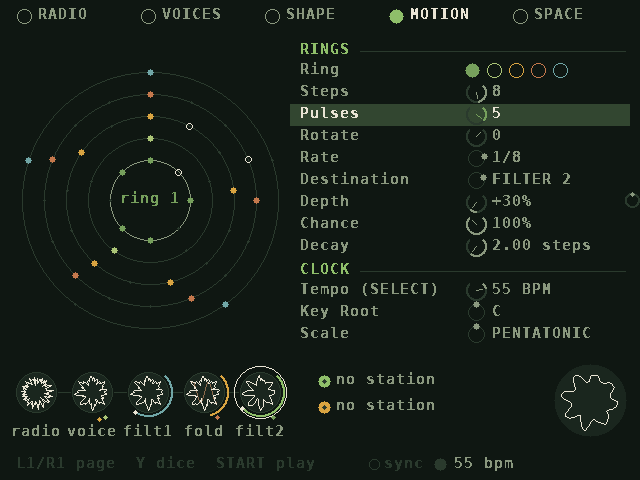
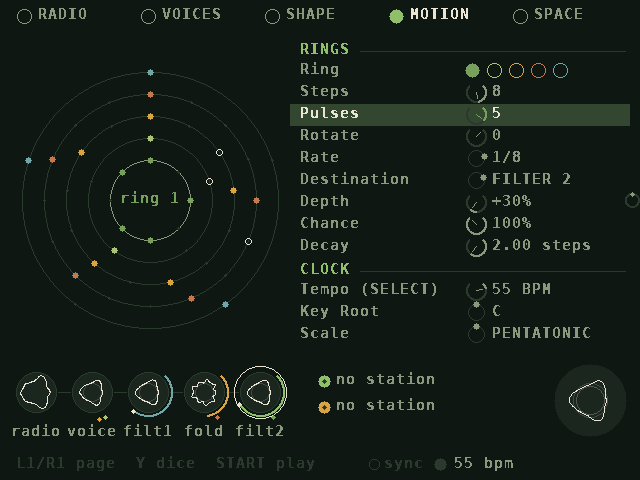
Draw the sound as abstract blooms instead of waveforms
Each tap of the signal chain now drives an abstract form rather than a
scope trace or a graph: loudness swells the core, brightness sets the
petal count (3, 5, 8, 13, 21) and spin, spikiness sharpens the petals,
and attacks send out ripples. The fold stage shapes its petals through
the folder at its live settings, replacing the transfer-curve plot.
Words, rim arcs, ring flashes and routing dots stay.

- dsp: per-voice raw-stream taps and synth_tap_features()
  (RMS, brightness, crest factor)

Claude-Session: https://claude.ai/code/session_01NaRCjGbybLXzqER8FjaiKa

diff --git a/src/main.c b/src/main.c
@@ -812,29 +812,77 @@ static void draw_voice_dots(int cx, int y, int o)
 
 /* ================================================================== PLAY screen */
 
-/* auto-scaling for traces: fast up, slow down, so quiet material is visible but gate dips still show */
-static float trace_peak[TAP_COUNT + 2];
+/* Abstract sound forms. Each tap of the signal chain drives a "bloom": its core swells with loudness,
+ * brightness sets how many petals it has (3, 5, 8, 13, 21) and how fast it turns, a spiky signal gives
+ * sharp petals, and sudden attacks send out ripples. No waveform is drawn literally. */
+typedef struct { float r, a; } Ripple;
+typedef struct {
+    float level, peak_env, slow;
+    float bright, rough, spin;
+    Ripple rip[5];
+} Bloom;
+static Bloom blooms[TAP_COUNT];
 
-static void autoscale(float *buf, int n, int slot)
+static void bloom_update(int tap, float dir)
 {
-    float pk = 0;
-    for (int i = 0; i < n; i++) { float a = fabsf(buf[i]); if (a > pk) pk = a; }
-    float *env = &trace_peak[slot];
-    *env = pk > *env ? pk : *env * 0.96f;
-    float g = 0.95f / (*env > 0.01f ? *env : 0.01f);
-    for (int i = 0; i < n; i++) {
-        float v = buf[i] * g;
-        buf[i] = v > 1 ? 1 : v < -1 ? -1 : v;
+    float rms, br, cr;
+    synth_tap_features(syn, tap, &rms, &br, &cr);
+    Bloom *b = &blooms[tap];
+    b->peak_env = rms > b->peak_env ? rms : b->peak_env * 0.985f;
+    float lv = rms / (b->peak_env > 0.003f ? b->peak_env : 0.003f);
+    if (rms < 0.0006f) lv *= rms / 0.0006f; /* true silence stays still */
+    b->level += (lv - b->level) * 0.35f;
+    b->bright += (br - b->bright) * 0.08f;
+    float rough = (cr - 1.3f) / 2.5f;
+    rough = rough < 0 ? 0 : rough > 1 ? 1 : rough;
+    b->rough += (rough - b->rough) * 0.15f;
+    b->spin += (0.004f + b->bright * 0.025f) * dir;
+    if (rms > b->slow * 1.6f && rms > 0.002f) /* an attack: release a ripple */
+        for (int i = 0; i < 5; i++)
+            if (b->rip[i].a < 0.05f) { b->rip[i].r = 0; b->rip[i].a = 1; break; }
+    b->slow += (rms - b->slow) * 0.05f;
+    for (int i = 0; i < 5; i++) {
+        b->rip[i].r += 0.05f;
+        b->rip[i].a *= 0.88f;
     }
 }
 
-/* a closed polar trace: radius r0 + v * amp around the circle */
-static void polar_trace(int cx, int cy, float r0, float amp, const float *v, int n, Uint32 col)
+static void update_blooms(void)
 {
+    for (int t = 0; t < TAP_COUNT; t++) bloom_update(t, (t & 1) ? -1.0f : 1.0f);
+}
+
+/* draw a bloom in the band rin..rout; ripples travel out to rmax. fold_type > 0 shapes the petals
+ * through the folder at its live drive, so folding is seen as petals bending and splitting. */
+static void draw_bloom(int cx, int cy, float rin, float rout, float rmax, int tap, Uint32 col, int fold_type,
+                       float fold_amt, float fold_bias)
+{
+    static const int fib[5] = {3, 5, 8, 13, 21};
+    const Bloom *b = &blooms[tap];
+    for (int i = 0; i < 5; i++)
+        if (b->rip[i].a > 0.05f) circle(cx, cy, (int)(rin + (rmax - rin) * b->rip[i].r), mix_col(C_BG, col, b->rip[i].a * 0.6f));
+    float bn = b->bright / 1.1f;
+    bn = bn < 0 ? 0 : bn > 1 ? 1 : bn;
+    float fi = bn * (rout - rin > 30 ? 4.0f : 3.0f); /* small forms stop at 13 petals */
+    int k0i = (int)fi, k1i = k0i + 1 > 4 ? 4 : k0i + 1;
+    float w = fi - k0i;
+    float lv = b->level > 1 ? 1 : b->level;
+    float rc = rin + (rout - rin) * (0.12f + 0.38f * lv);
+    float amp = (rout - rin) * (0.22f + 0.45f * b->rough) * (0.25f + 0.75f * lv);
+    float sharp = 1.0f + b->rough * 3.0f;
     int x0 = 0, y0 = 0;
-    for (int i = 0; i <= n; i++) {
+    const int N = 120;
+    for (int i = 0; i <= N; i++) {
+        float th = (float)(i % N) / N * 2.0f * (float)M_PI, g = 0;
+        for (int pass = 0; pass < 2; pass++) {
+            float k = (float)fib[pass ? k1i : k0i];
+            float u = sinf(k * th + b->spin), gv;
+            if (fold_type) gv = 0.5f + 0.5f * synth_fold_preview(fold_type, u * fold_amt * 0.6f + fold_bias);
+            else gv = powf(0.5f + 0.5f * u, sharp);
+            g += pass ? w * gv : (1 - w) * gv;
+        }
         int x, y;
-        polar(cx, cy, r0 + v[i % n] * amp, (float)i / n, &x, &y);
+        polar(cx, cy, rc + amp * g, (float)(i % N) / N, &x, &y);
         if (i) line(x0, y0, x, y, col);
         x0 = x;
         y0 = y;
@@ -884,15 +932,12 @@ static void draw_osc_circle(int o, int cx, int cy)
     int R = 74;
     disc(cx, cy, R, C_PANEL);
     circle(cx, cy, R, mix_col(C_PANEL2, col, lvl * 2));
-    /* before: the raw broadcast (or grabbed slice), faint, on the inner orbit */
-    synth_osc_snapshot(syn, o, snapbuf, 128);
-    autoscale(snapbuf, 128, TAP_COUNT + o);
-    polar_trace(cx, cy, 36, 12, snapbuf, 128, mix_col(C_PANEL, col, 0.45f));
-    /* after: the voice as it leaves its engine and gate, bright, on the outer orbit */
-    synth_tap(syn, o ? TAP_B : TAP_A, snapbuf, 128, 1024);
-    autoscale(snapbuf, 128, o ? TAP_B : TAP_A);
-    polar_trace(cx, cy, 60, 10, snapbuf, 128, col);
+    /* before: the raw broadcast, faint, on the inner band */
+    draw_bloom(cx, cy, 24, 42, 44, o ? TAP_RAW_B : TAP_RAW_A, mix_col(C_PANEL, col, 0.45f), 0, 0, 0);
+    /* after: the voice as it leaves its engine and gate, bright, on the outer band */
+    draw_bloom(cx, cy, 44, 70, R + 14, o ? TAP_B : TAP_A, col, 0, 0, 0);
     (void)mode;
+    (void)snapbuf;
     /* rhythmic gate pattern as dots on the outer orbit */
     int gsteps = (int)p[P_A_G_STEPS + o * OSC_STRIDE];
     int gp = (int)p[P_A_G_PULSES + o * OSC_STRIDE], gr = (int)p[P_A_G_ROTATE + o * OSC_STRIDE];
@@ -974,20 +1019,11 @@ static void draw_stages(int x0, int y, int spacing, int R, int highlight)
         if (i == highlight) circle(cx, y, R + 6, C_TEXT); /* the stage being edited */
         circle(cx, y, R, fl > 0.05f ? mix_col(C_PANEL2, fcol, fl) : C_PANEL2);
         if (fl > 0.05f) circle(cx, y, R + 1, mix_col(C_BG, fcol, fl));
-        if (i == 3 && lv.fold_type) { /* the folder's live transfer curve, behind the wave */
-            int px0 = 0, py0 = 0;
-            for (int k = 0; k <= 24; k++) {
-                float xin = -1.0f + k / 12.0f;
-                float yo = synth_fold_preview(lv.fold_type, xin * lv.fold_amount + lv.fold_bias);
-                int px_ = cx - R * 6 / 10 + k * (R * 12 / 10) / 24, py_ = y - (int)(yo * R * 0.55f);
-                if (k) line(px0, py0, px_, py_, C_BARK);
-                px0 = px_;
-                py0 = py_;
-            }
-        }
-        synth_tap(syn, taps[i], buf, 96, 1024);
-        autoscale(buf, 96, taps[i]);
-        polar_trace(cx, y, R * 0.62f, R * 0.3f, buf, 96, off ? C_PANEL2 : fl > 0.05f ? mix_col(C_TEXT, fcol, fl) : C_TEXT);
+        int fold_here = i == 3 && lv.fold_type;
+        draw_bloom(cx, y, R * 0.2f, R * 0.95f, R * 1.0f, taps[i],
+                   off ? C_PANEL2 : fl > 0.05f ? mix_col(C_TEXT, fcol, fl) : C_TEXT,
+                   fold_here ? lv.fold_type : 0, lv.fold_amount, lv.fold_bias);
+        (void)buf;
         /* live modulated settings on the rim: cutoff for the filters, drive for the folder */
         int mx, my;
         if ((i == 2 && lv.f1_mode) || (i == 4 && lv.f2_mode)) {
@@ -1032,12 +1068,9 @@ static void draw_play(void)
     note_name(synth_current_note(syn), nn, sizeof nn);
     disc(320, 128, 16, synth_gate_on(syn) ? mix_col(C_PANEL, C_LEAF, synth_env_value(syn)) : C_PANEL);
     { /* the final output, after delay and reverb, around the note */
-        static float ob[96];
         Uint32 oc = C_DIM;
         float fl = stage_flash(5, &oc);
-        synth_tap(syn, TAP_OUT, ob, 96, 1024);
-        autoscale(ob, 96, TAP_OUT);
-        polar_trace(320, 128, 22, 5, ob, 96, fl > 0.05f ? mix_col(C_DIM, oc, fl) : C_DIM);
+        draw_bloom(320, 128, 18, 29, 100, TAP_OUT, fl > 0.05f ? mix_col(C_DIM, oc, fl) : C_DIM, 0, 0, 0);
     }
     text_center(320, 119, nn, C_TEXT, 0);
     if (SDL_GetTicks() < ui.grab_flash) text_center(320, 232, "grabbed", C_LEAF, 0);
@@ -1269,10 +1302,7 @@ static void draw_edit(void)
     disc(590, 400, 36, C_PANEL);
     if (hl == 5) circle(590, 400, 40, C_TEXT);
     {
-        static float ob[128];
-        synth_tap(syn, TAP_OUT, ob, 128, 1024);
-        autoscale(ob, 128, TAP_OUT);
-        polar_trace(590, 400, 24, 9, ob, 128, C_TEXT);
+        draw_bloom(590, 400, 6, 34, 40, TAP_OUT, C_TEXT, 0, 0, 0);
     }
     draw_beat(440, 456);
     text(16, 456, "L1/R1 page  Y dice  START play", C_PANEL2, 0);
@@ -1541,6 +1571,7 @@ static void present(void)
 
 static void render(void)
 {
+    update_blooms();
     if (ui.screen == SCR_PLAY) draw_play();
     else draw_edit();
     if (ui.overlay == OV_KEYBOARD) draw_keyboard();
@@ -1779,10 +1810,17 @@ int main(int argc, char **argv)
         if (!strcmp(shot_view, "scan")) ui.overlay = OV_SCANMENU;
         /* let the engine run a moment so the rings and waves have something to show */
         static float fa[2048], fb[2048], fo[2048];
-        for (int i = 0; i < 2048; i++) { fa[i] = 0.3f * sinf(i * 0.05f) * sinf(i * 0.002f); fb[i] = 0.2f * sinf(i * 0.11f); }
+        for (int i = 0; i < 2048; i++) { /* A: noisy, bursty; B: a plain tone */
+            fa[i] = 0.25f * sinf(i * 0.05f) * sinf(i * 0.002f) + 0.15f * ((float)rand() / RAND_MAX - 0.5f) * (i % 700 < 200);
+            fb[i] = 0.2f * sinf(i * 0.011f);
+        }
         for (int k = 0; k < 40; k++) synth_process(syn, fa, fb, fo, 1024);
         synth_grab(syn, -1);
-        for (int k = 0; k < 10; k++) { synth_process(syn, fa, fb, fo, 1024); memcpy(scope_buf, fo, sizeof(float) * 2048); }
+        for (int k = 0; k < 30; k++) {
+            synth_process(syn, fa, fb, fo, 1024);
+            memcpy(scope_buf, fo, sizeof(float) * 2048);
+            update_blooms();
+        }
         scope_w = 2048;
         render();
         SDL_SaveBMP(screen, shot);

diff --git a/src/dsp.h b/src/dsp.h
@@ -131,7 +131,7 @@ float synth_osc_level(const Synth *s, int osc);
 int synth_osc_snapshot(Synth *s, int osc, float *dst, int n);
 
 /* Signal taps for the display: the live waveform at points along the chain. */
-enum { TAP_STREAM, TAP_VOICES, TAP_FILTER1, TAP_FOLD, TAP_FILTER2, TAP_OUT, TAP_A, TAP_B, TAP_COUNT };
+enum { TAP_STREAM, TAP_VOICES, TAP_FILTER1, TAP_FOLD, TAP_FILTER2, TAP_OUT, TAP_A, TAP_B, TAP_RAW_A, TAP_RAW_B, TAP_COUNT };
 /* Copy the most recent `span` samples of a tap, resampled to n points, starting at a rising zero crossing
  * when one is near so the picture holds still. */
 void synth_tap(const Synth *s, int tap, float *dst, int n, int span);
@@ -139,6 +139,9 @@ void synth_tap(const Synth *s, int tap, float *dst, int n, int span);
 typedef struct { float cutoff1, cutoff2, fold_amount, fold_bias; int fold_type, f1_mode, f2_mode; } SynthLive;
 void synth_live(const Synth *s, SynthLive *out);
 float synth_fold_preview(int fold_type, float x);   /* the folder's transfer curve */
+/* Sound features of a tap over the last ~20 ms: level (RMS), brightness (0 dark .. ~1.4 noise-bright)
+ * and crest factor (peak / RMS: ~1.4 smooth .. 4+ spiky). Drives the abstract forms on screen. */
+void synth_tap_features(const Synth *s, int tap, float *rms, float *bright, float *crest);
 
 float param_clamp(int id, float v);
 float param_adjust(int id, float v, int dir, int fine);

diff --git a/src/dsp.c b/src/dsp.c
@@ -1539,6 +1539,8 @@ void synth_process(Synth *s, const float *inA, const float *inB, float *out, int
             unsigned tw = s->tap_w & 2047;
             s->tap[TAP_STREAM][tw] = 0.25f * (in[0][i * 2] + in[0][i * 2 + 1] + in[1][i * 2] + in[1][i * 2 + 1]);
             s->tap[TAP_A][tw] = am;
+            s->tap[TAP_RAW_A][tw] = 0.5f * (in[0][i * 2] + in[0][i * 2 + 1]);
+            s->tap[TAP_RAW_B][tw] = 0.5f * (in[1][i * 2] + in[1][i * 2 + 1]);
             s->tap[TAP_B][tw] = bm;
             s->tap[TAP_VOICES][tw] = 0.5f * (x[0] + x[1]);
             float t1 = 0, t2 = 0, t3 = 0;
@@ -1633,3 +1635,22 @@ found:
 void synth_live(const Synth *s, SynthLive *out) { *out = s->live; }
 
 float synth_fold_preview(int type, float x) { return type ? fold(type, x) : x; }
+
+void synth_tap_features(const Synth *s, int tap, float *rms, float *bright, float *crest)
+{
+    const float *t = s->tap[tap];
+    unsigned end = s->tap_w;
+    double e = 0, d = 0;
+    float pk = 0, prev = t[(end - 1025) & 2047];
+    for (unsigned i = end - 1024; i != end; i++) {
+        float v = t[i & 2047];
+        e += v * v;
+        d += (v - prev) * (v - prev);
+        prev = v;
+        if (fabsf(v) > pk) pk = fabsf(v);
+    }
+    float r = (float)sqrt(e / 1024.0);
+    *rms = r;
+    *bright = r > 1e-6f ? (float)sqrt(d / 1024.0) / r : 0;
+    *crest = r > 1e-6f ? pk / r : 1.4f;
+}

diff --git a/README.md b/README.md
@@ -48,21 +48,29 @@ rings, chance and drift keep it moving. It's designed for ambient performance an
   clocks are often wrong, but chain and hostname are still checked. Also handles HTTP, ICY metadata (song titles),
   redirects, and `.pls` / `.m3u` playlists.
 
-**Seeing the sound.** Everything is drawn live from the audio:
+**Seeing the sound.** The sound is drawn as abstract forms, not waveforms or graphs. Every point of the signal
+chain drives a "bloom":
 
-- **Voice circles.** Each voice circle shows the raw broadcast as a faint inner trace and the voice as it
-  leaves its engine and gate as a bright outer trace. You watch the gate chop it, the wavetable morph, and
-  grains scatter.
-- **Signal path.** Five small circles show the waveform at each stage: *radio → voice → filt1 → fold → filt2*.
-  - The filter rims show the live, modulated cutoff, and the marker grows with resonance.
-  - The fold rim shows the live drive, and its transfer curve is drawn behind the wave.
+| Sound | Form |
+|---|---|
+| Loudness | The core swells |
+| Brightness | Petal count (3, 5, 8, 13, 21) and spin speed: filtering calms a form, brightness makes it turn and multiply |
+| Spikiness | Sharp petals instead of soft lobes |
+| Attacks | Ripples spread outward |
+
+- **Voice circles.** Each voice circle shows the raw broadcast as a faint inner bloom and the voice after its
+  engine and gate as a bright outer bloom.
+- **Signal path.** Five small circles follow the chain: *radio → voice → filt1 → fold → filt2*.
+  - The fold circle's petals pass through the folder at its live settings, so more fold visibly bends and
+    splits them.
+  - Filter rims show the live, modulated cutoff (the marker grows with resonance), and the fold rim shows drive.
   - When a Euclidean ring fires, the stage it modulates flashes in that ring's colour; small dots under each
     circle show which rings are routed there.
-- **Output.** The final sound, after delay and reverb, circles the current note in the middle of the ring wheel.
-- **On EDIT pages,** the same signal path sits at the bottom, with the stage the selected setting affects
-  ringed, so you can see what a knob does as you turn it.
-- **Quiet sounds stay visible.** Traces scale themselves (quick to grow, slow to shrink), so quiet material
-  still shows clearly and gate dips still read.
+- **Output.** The final sound, after delay and reverb, blooms around the current note in the middle of the
+  ring wheel, and its ripples spread through the rings.
+- **On EDIT pages,** the same signal path sits at the bottom, with the stage the selected setting affects ringed.
+- **Quiet sounds stay visible.** Forms scale to the sound's own level, so quiet material still moves while true
+  silence stays still.
 
 The visual design is circles throughout: knobs, rings, pads. It follows the number five (five pages, five
 rings, five drifters, pentatonic and other five-note scales, 5/16 and 5/8 note values) and a forest palette of
